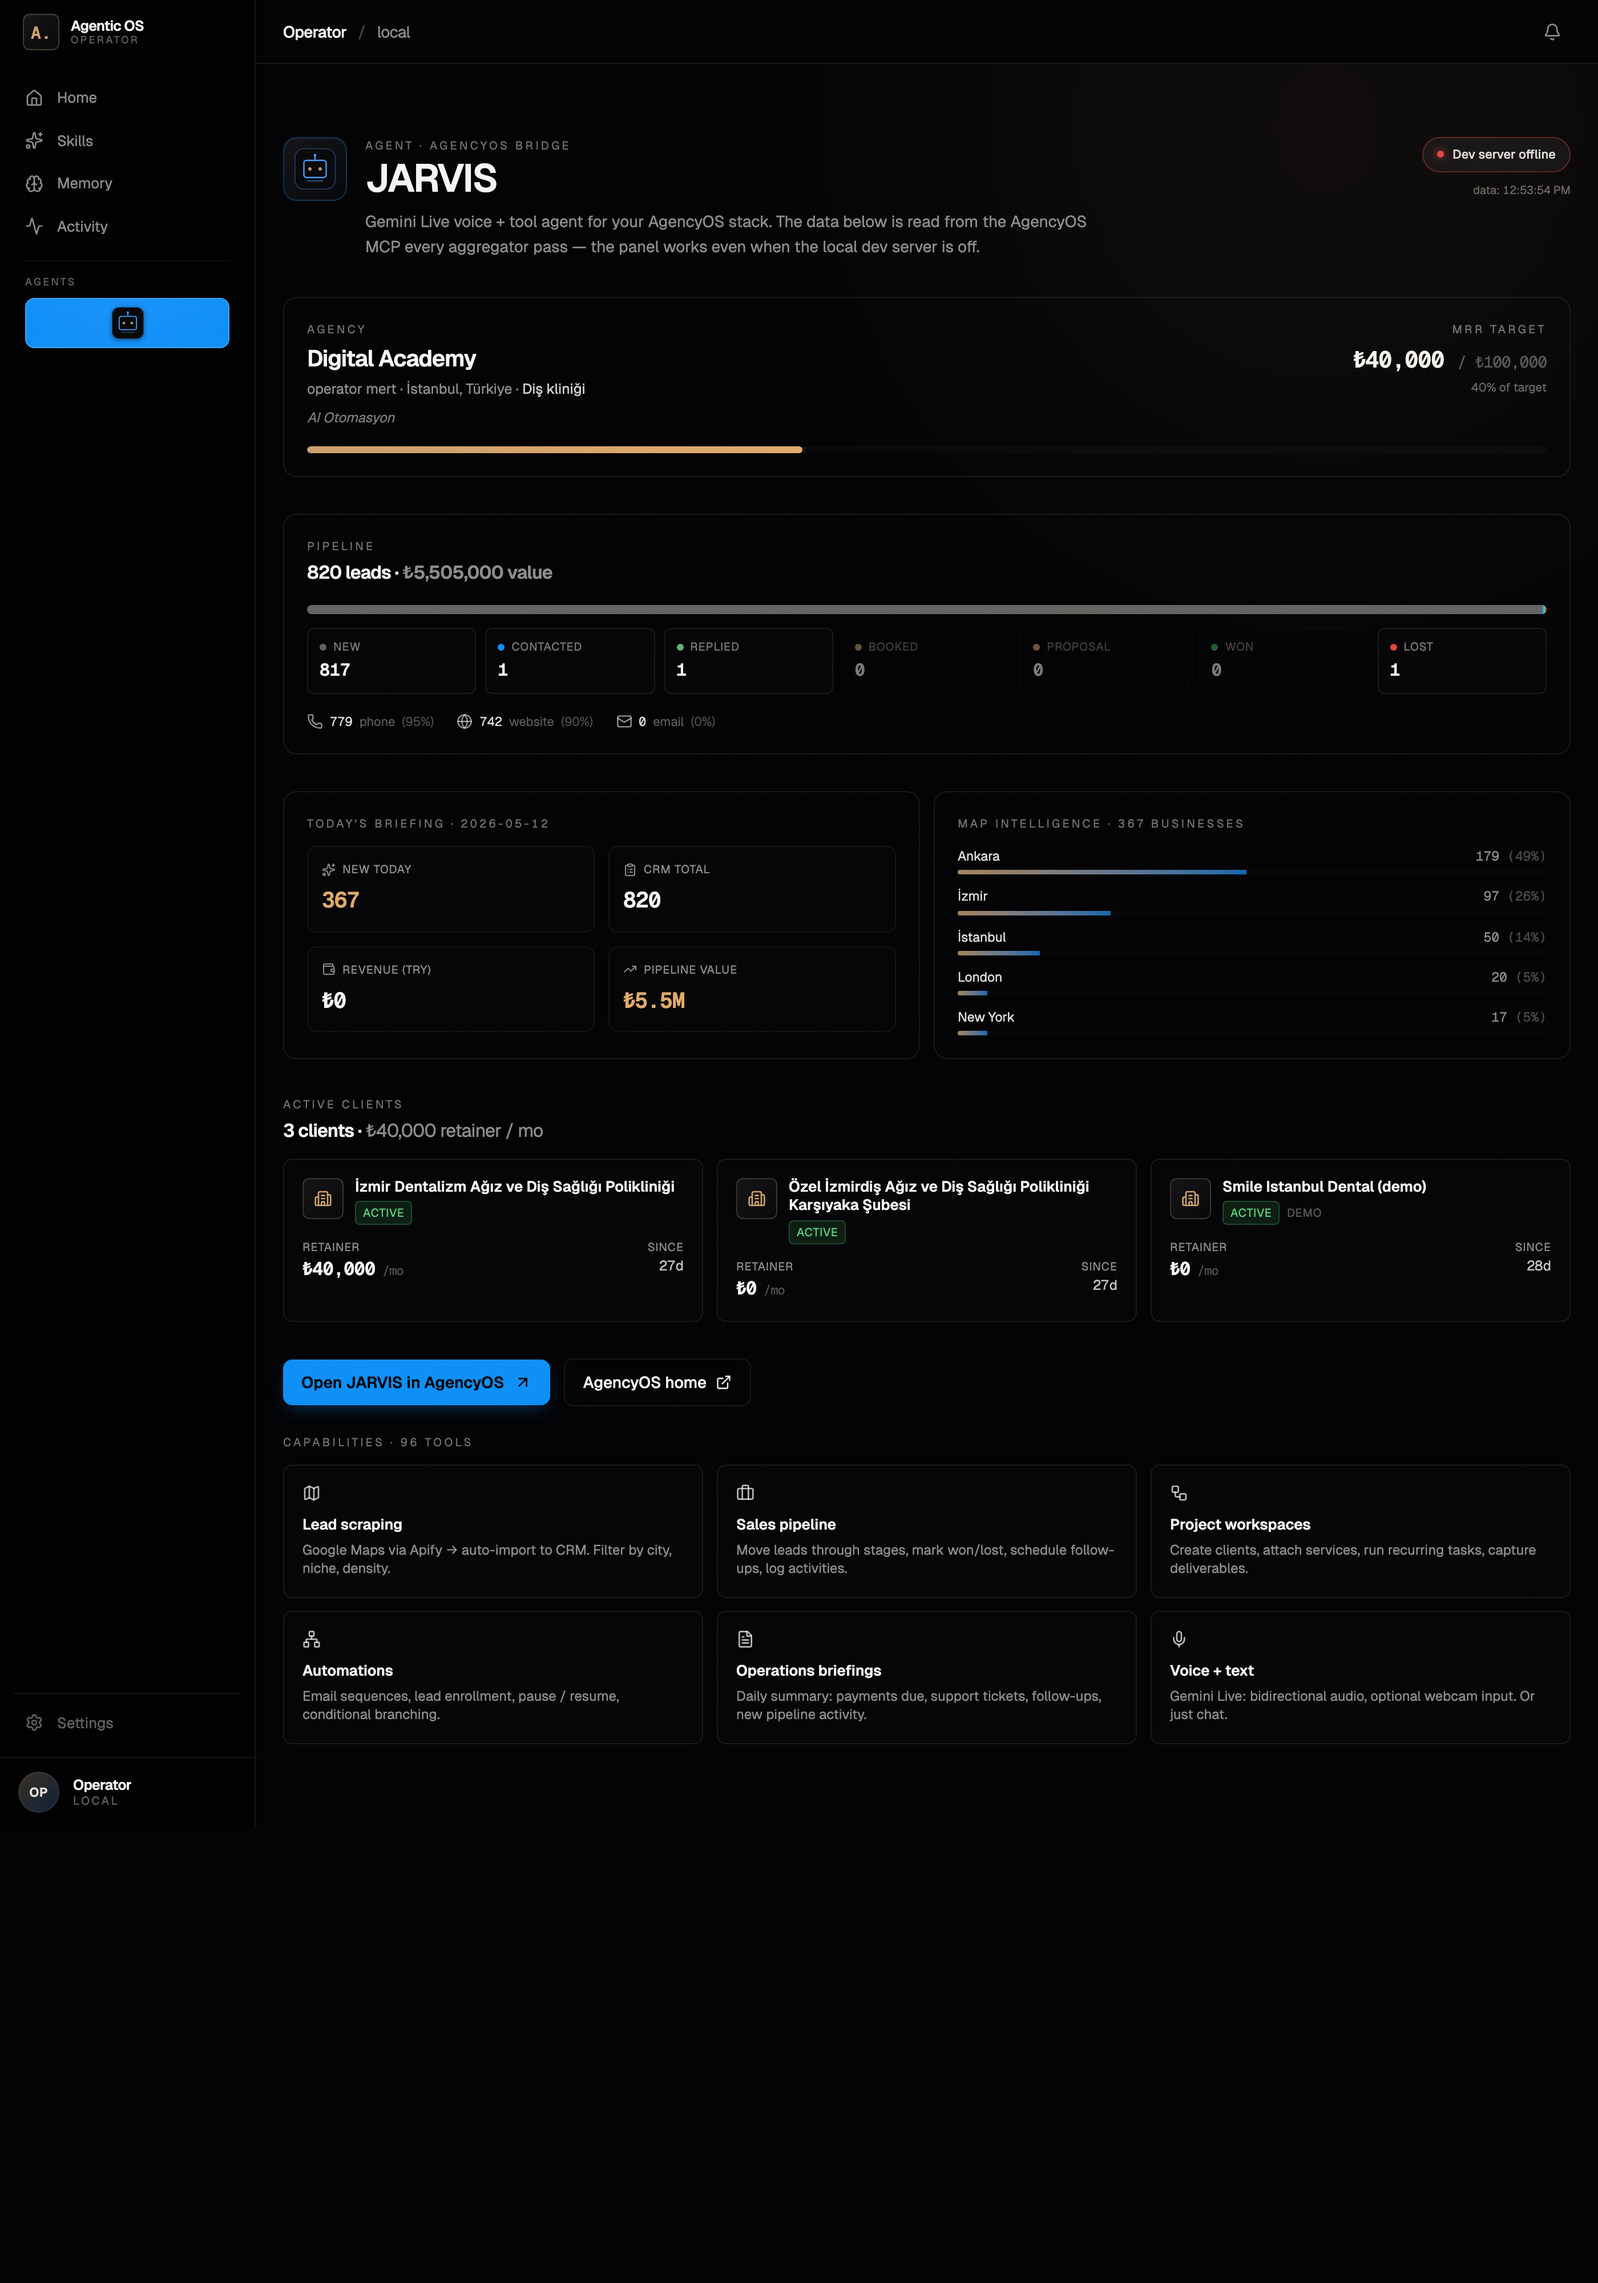
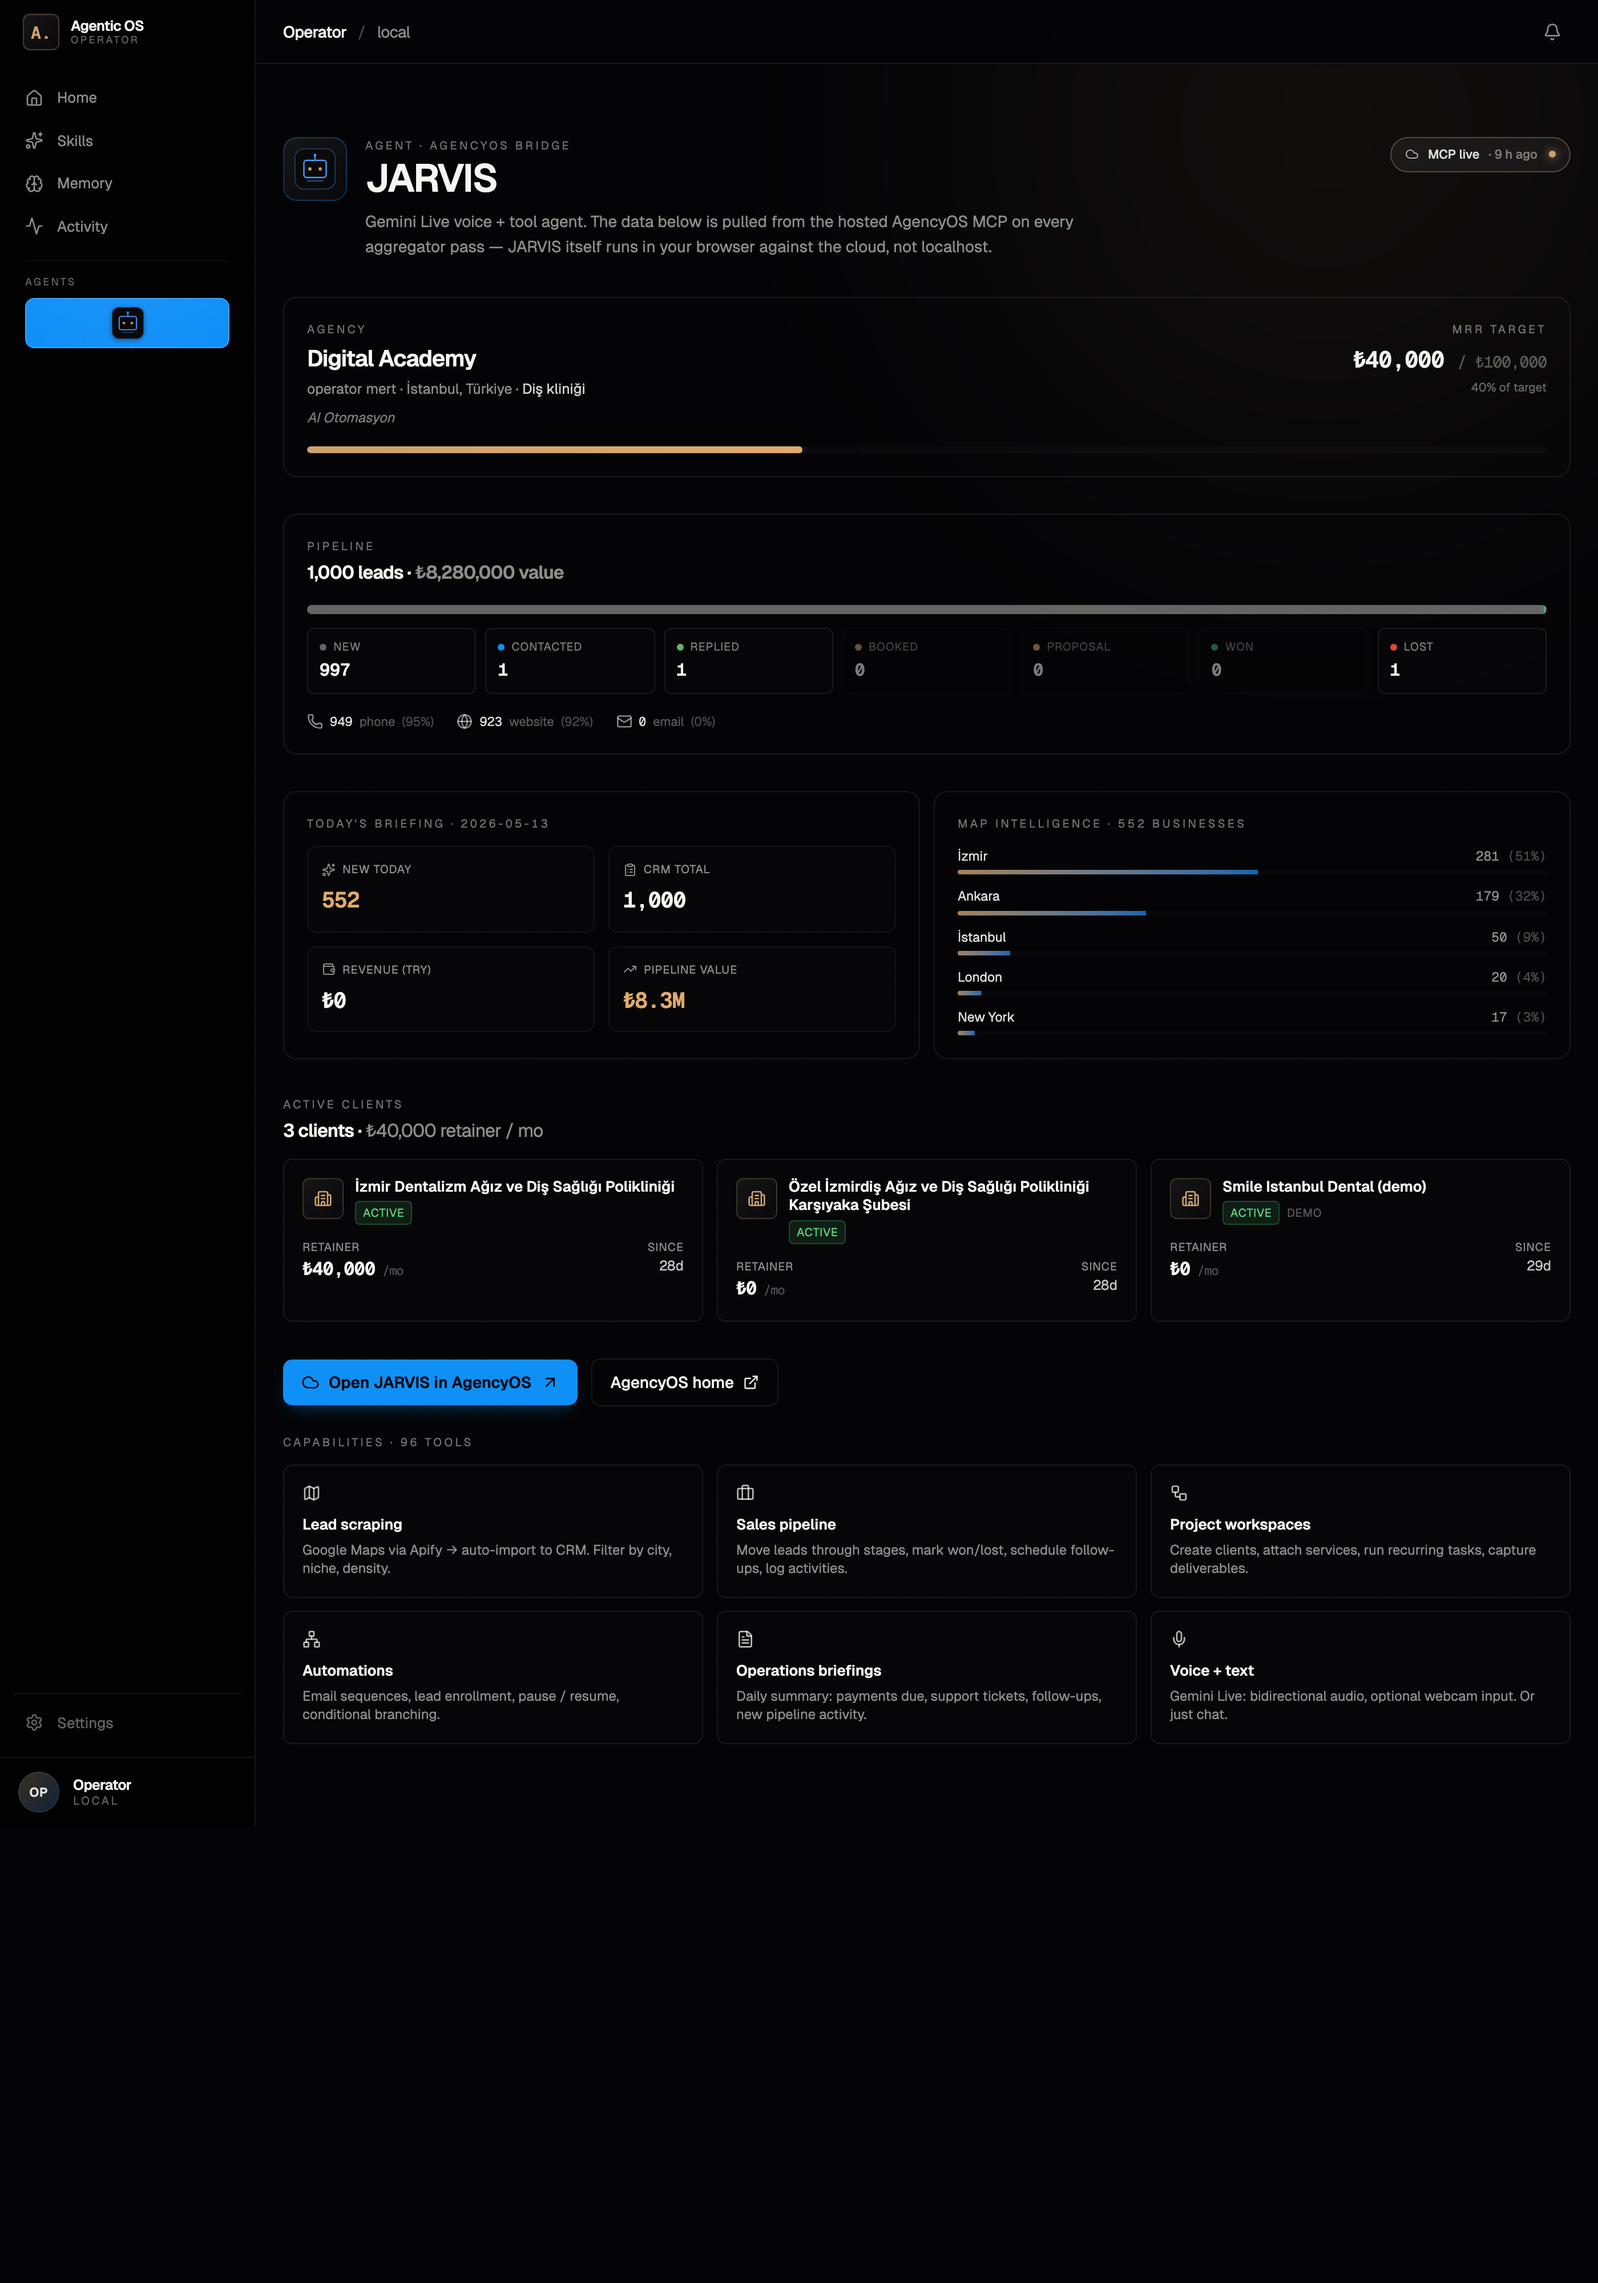
fix(jarvis): point launcher at the cloud, not localhost
JARVIS doesn't live on the operator's machine — it lives at the
AgencyOS Netlify host (or wherever the operator has configured the
agencyos MCP server). The launcher was hard-coded to localhost:3091
which meant the primary "Open JARVIS" button opened nothing on a
machine that wasn't actively running AgencyOS dev mode.

Cloud-aware rewrite:
  - Derive the launch URL from agencyos.url in live-data — strip the
    /mcp suffix from the MCP endpoint to get the app home. Whatever
    AgencyOS instance the operator has wired into ~/.claude/mcp.json
    Just Works.
  - Replace the localhost status pill with an MCP-availability pill:
    "MCP live · N min/h ago" in green when fresh (<4h), amber when
    stale. Tooltip shows the MCP host so the operator knows which
    instance is connected.
  - Local dev (localhost:3091) demoted to an optional secondary pill
    + button — shown only when actually reachable, for the case where
    the operator is hacking on AgencyOS itself.
  - Primary "Open JARVIS in AgencyOS" button now gets a Cloud icon
    + opens the hosted URL.

Today the operator's machine shows MCP live · 5h ago with the latest
data (1,000 leads up from 820, ₺8.3M pipeline value up from ₺5.5M) —
proving the data flow is healthy and the localhost dependency was
purely a UX artefact.

diff --git a/src/routes/agents.jarvis.tsx b/src/routes/agents.jarvis.tsx
@@ -1,5 +1,5 @@
 import { createFileRoute } from "@tanstack/react-router";
-import { useEffect, useMemo, useState } from "react";
+import { useEffect, useState } from "react";
 import {
   ExternalLink,
   Mic,
@@ -17,13 +17,17 @@ import {
   TrendingUp,
   ClipboardList,
   Sparkles,
+  Cloud,
+  Server,
 } from "lucide-react";
 import jarvisLogo from "@/assets/jarvis.svg?url";
 import { useLiveData } from "@/lib/use-live-data";
 
-const AGENCYOS_PORT = 3091;
-const AGENCYOS_URL = `http://localhost:${AGENCYOS_PORT}`;
-const AGENCYOS_OPEN_URL = `${AGENCYOS_URL}/#map`;
+// AgencyOS lives in the cloud (Netlify). The dev server on :3091 is an
+// optional local mirror for when the operator is hacking on AgencyOS itself.
+// We derive the hosted URL from the MCP config so a custom instance Just Works.
+const LOCAL_DEV_PORT = 3091;
+const LOCAL_DEV_URL = `http://localhost:${LOCAL_DEV_PORT}`;
 
 export const Route = createFileRoute("/agents/jarvis")({
   head: () => ({
@@ -39,20 +43,21 @@ export const Route = createFileRoute("/agents/jarvis")({
   component: JarvisPage,
 });
 
-type LiveStatus = "checking" | "online" | "offline";
+type LocalStatus = "checking" | "online" | "offline";
 
 function JarvisPage() {
   const ld = useLiveData() as any;
   const ao = ld?.agencyos as any;
 
-  const [status, setStatus] = useState<LiveStatus>("checking");
+  // Optional local dev mirror — only relevant if operator hacks on AgencyOS.
+  const [localStatus, setLocalStatus] = useState<LocalStatus>("checking");
   useEffect(() => {
     let cancelled = false;
     const ctrl = new AbortController();
     const timer = setTimeout(() => ctrl.abort(), 1500);
-    fetch(AGENCYOS_URL, { mode: "no-cors", signal: ctrl.signal })
-      .then(() => !cancelled && setStatus("online"))
-      .catch(() => !cancelled && setStatus("offline"))
+    fetch(LOCAL_DEV_URL, { mode: "no-cors", signal: ctrl.signal })
+      .then(() => !cancelled && setLocalStatus("online"))
+      .catch(() => !cancelled && setLocalStatus("offline"))
       .finally(() => clearTimeout(timer));
     return () => {
       cancelled = true;
@@ -68,6 +73,17 @@ function JarvisPage() {
   const clients = (ao?.clients ?? []) as any[];
   const retainerTotal = ao?.monthlyRetainerTotal ?? 0;
   const activeClientCount = ao?.activeClientCount ?? clients.length;
+
+  // Derive the hosted JARVIS URL from the MCP config the aggregator already
+  // wrote into live-data. The operator's MCP URL is the canonical "where does
+  // AgencyOS actually live" — strip the /mcp suffix to get the app home.
+  const mcpUrl: string = ao?.url ?? "";
+  const hostedBase = mcpUrl.replace(/\/mcp\/?$/, "");
+  const hostedOpenUrl = hostedBase ? `${hostedBase}/#map` : "";
+  const hostedHost = hostedBase ? hostedBase.replace(/^https?:\/\//, "").replace(/\/$/, "") : "";
+
+  const fetchedAtMs = ao?.fetchedAt ? new Date(ao.fetchedAt).getTime() : 0;
+  const ageMin = fetchedAtMs ? Math.max(0, Math.round((Date.now() - fetchedAtMs) / 60_000)) : -1;
 
   const goalMrr = state?.revenueGoal?.targetMrr ?? 0;
   const currency = state?.revenueGoal?.currency ?? "TRY";
@@ -97,18 +113,20 @@ function JarvisPage() {
               JARVIS
             </h1>
             <p className="mt-2 text-[14px] text-muted-foreground max-w-[640px] leading-relaxed">
-              Gemini Live voice + tool agent for your AgencyOS stack. The data below is read from
-              the AgencyOS MCP every aggregator pass — the panel works even when the local dev
-              server is off.
+              Gemini Live voice + tool agent. The data below is pulled from the hosted AgencyOS MCP
+              on every aggregator pass — JARVIS itself runs in your browser against the cloud, not
+              localhost.
             </p>
           </div>
         </div>
-        <div className="flex flex-col items-end gap-2">
-          <StatusPill status={status} />
-          {ao?.fetchedAt && (
-            <span className="text-[10px] text-muted-foreground/70 tabular-nums">
-              data: {new Date(ao.fetchedAt).toLocaleTimeString()}
-            </span>
+        <div className="flex flex-col items-end gap-1.5">
+          <McpStatusPill
+            available={ao?.available === true}
+            ageMin={ageMin}
+            host={hostedHost}
+          />
+          {localStatus === "online" && (
+            <LocalDevPill />
           )}
         </div>
       </div>
@@ -273,27 +291,50 @@ function JarvisPage() {
       {/* Launch + capabilities */}
       <section>
         <div className="flex items-center gap-3 flex-wrap mb-6">
-          <button
-            onClick={() => window.open(AGENCYOS_OPEN_URL, "_blank", "noopener,noreferrer")}
-            className="inline-flex items-center gap-2 rounded-lg px-4 py-2.5 text-sm font-semibold transition-colors"
-            style={{
-              background: "oklch(0.65 0.18 250)",
-              color: "oklch(0.11 0.005 285)",
-              boxShadow: "0 6px 16px -6px oklch(0.65 0.18 250 / 45%)",
-            }}
-          >
-            Open JARVIS in AgencyOS
-            <ArrowUpRight className="h-4 w-4" />
-          </button>
-          <a
-            href={AGENCYOS_URL}
-            target="_blank"
-            rel="noopener noreferrer"
-            className="inline-flex items-center gap-2 rounded-lg px-4 py-2.5 text-sm font-medium border border-border hover:border-foreground/30 hover:bg-accent/30 transition-colors"
-          >
-            AgencyOS home
-            <ExternalLink className="h-3.5 w-3.5" />
-          </a>
+          {hostedOpenUrl ? (
+            <button
+              onClick={() => window.open(hostedOpenUrl, "_blank", "noopener,noreferrer")}
+              className="inline-flex items-center gap-2 rounded-lg px-4 py-2.5 text-sm font-semibold transition-colors"
+              style={{
+                background: "oklch(0.65 0.18 250)",
+                color: "oklch(0.11 0.005 285)",
+                boxShadow: "0 6px 16px -6px oklch(0.65 0.18 250 / 45%)",
+              }}
+              title={hostedHost}
+            >
+              <Cloud className="h-4 w-4" />
+              Open JARVIS in AgencyOS
+              <ArrowUpRight className="h-4 w-4" />
+            </button>
+          ) : (
+            <span className="text-[12px] text-muted-foreground italic">
+              AgencyOS URL not configured — add the agencyos MCP server to ~/.claude/mcp.json
+            </span>
+          )}
+          {hostedBase && (
+            <a
+              href={hostedBase}
+              target="_blank"
+              rel="noopener noreferrer"
+              className="inline-flex items-center gap-2 rounded-lg px-4 py-2.5 text-sm font-medium border border-border hover:border-foreground/30 hover:bg-accent/30 transition-colors"
+              title={hostedHost}
+            >
+              AgencyOS home
+              <ExternalLink className="h-3.5 w-3.5" />
+            </a>
+          )}
+          {localStatus === "online" && (
+            <button
+              onClick={() =>
+                window.open(`${LOCAL_DEV_URL}/#map`, "_blank", "noopener,noreferrer")
+              }
+              className="inline-flex items-center gap-2 rounded-lg px-4 py-2.5 text-sm font-medium border border-border hover:border-foreground/30 hover:bg-accent/30 transition-colors"
+              title="A local dev mirror is running on this machine"
+            >
+              <Server className="h-3.5 w-3.5" />
+              Local dev · :{LOCAL_DEV_PORT}
+            </button>
+          )}
         </div>
         <div className="text-[10px] uppercase tracking-[0.22em] text-muted-foreground/80 mb-3">
           Capabilities · 96 tools
@@ -313,31 +354,83 @@ function JarvisPage() {
 
 /* ── components ────────────────────────────────────────────── */
 
-function StatusPill({ status }: { status: LiveStatus }) {
-  const cfg = {
-    checking: { label: "Checking…", dot: "oklch(0.65 0.005 90)", ring: "oklch(1 0 0 / 10%)" },
-    online: {
-      label: `Dev server live · :${AGENCYOS_PORT}`,
-      dot: "oklch(0.70 0.16 150)",
-      ring: "oklch(0.70 0.16 150 / 35%)",
-    },
-    offline: {
-      label: "Dev server offline",
-      dot: "oklch(0.62 0.20 25)",
-      ring: "oklch(0.62 0.20 25 / 35%)",
-    },
-  }[status];
+function pillStyle(ring: string) {
+  return {
+    background: "oklch(0.18 0.005 285)",
+    border: `1px solid ${ring}`,
+  } as const;
+}
+
+function McpStatusPill({
+  available,
+  ageMin,
+  host,
+}: {
+  available: boolean;
+  ageMin: number;
+  host: string;
+}) {
+  if (!available) {
+    const ring = "oklch(0.62 0.20 25 / 35%)";
+    const dot = "oklch(0.62 0.20 25)";
+    return (
+      <div
+        className="shrink-0 inline-flex items-center gap-2 rounded-full px-3 py-1.5 text-[11px] font-medium"
+        style={pillStyle(ring)}
+      >
+        <span
+          aria-hidden
+          className="h-1.5 w-1.5 rounded-full"
+          style={{ background: dot, boxShadow: `0 0 8px ${dot}` }}
+        />
+        <span className="text-foreground/90">MCP not connected</span>
+      </div>
+    );
+  }
+  // Available — green if recent, amber if stale (>4 hours)
+  const stale = ageMin > 240;
+  const dot = stale ? "oklch(0.74 0.085 70)" : "oklch(0.70 0.16 150)";
+  const ring = stale ? "oklch(0.74 0.085 70 / 35%)" : "oklch(0.70 0.16 150 / 35%)";
+  const ageLabel =
+    ageMin < 0
+      ? ""
+      : ageMin === 0
+        ? "just now"
+        : ageMin < 60
+          ? `${ageMin} min ago`
+          : ageMin < 24 * 60
+            ? `${Math.round(ageMin / 60)} h ago`
+            : `${Math.round(ageMin / (24 * 60))} d ago`;
   return (
     <div
       className="shrink-0 inline-flex items-center gap-2 rounded-full px-3 py-1.5 text-[11px] font-medium"
-      style={{ background: "oklch(0.18 0.005 285)", border: `1px solid ${cfg.ring}` }}
+      style={pillStyle(ring)}
+      title={host ? `MCP host: ${host}` : undefined}
     >
+      <Cloud className="h-3 w-3 text-foreground/70" />
+      <span className="text-foreground/90">MCP live</span>
+      {ageLabel && (
+        <span className="text-muted-foreground/85 tabular-nums">· {ageLabel}</span>
+      )}
       <span
         aria-hidden
-        className="h-1.5 w-1.5 rounded-full"
-        style={{ background: cfg.dot, boxShadow: `0 0 8px ${cfg.dot}` }}
+        className="h-1.5 w-1.5 rounded-full ml-0.5"
+        style={{ background: dot, boxShadow: `0 0 8px ${dot}` }}
       />
-      <span className="text-foreground/90">{cfg.label}</span>
+    </div>
+  );
+}
+
+function LocalDevPill() {
+  const ring = "oklch(0.70 0.16 150 / 30%)";
+  return (
+    <div
+      className="shrink-0 inline-flex items-center gap-2 rounded-full px-3 py-1 text-[10.5px] font-medium"
+      style={pillStyle(ring)}
+      title="Local AgencyOS dev server detected on :3091"
+    >
+      <Server className="h-2.5 w-2.5 text-foreground/65" />
+      <span className="text-muted-foreground/90">local dev · :{LOCAL_DEV_PORT}</span>
     </div>
   );
 }
